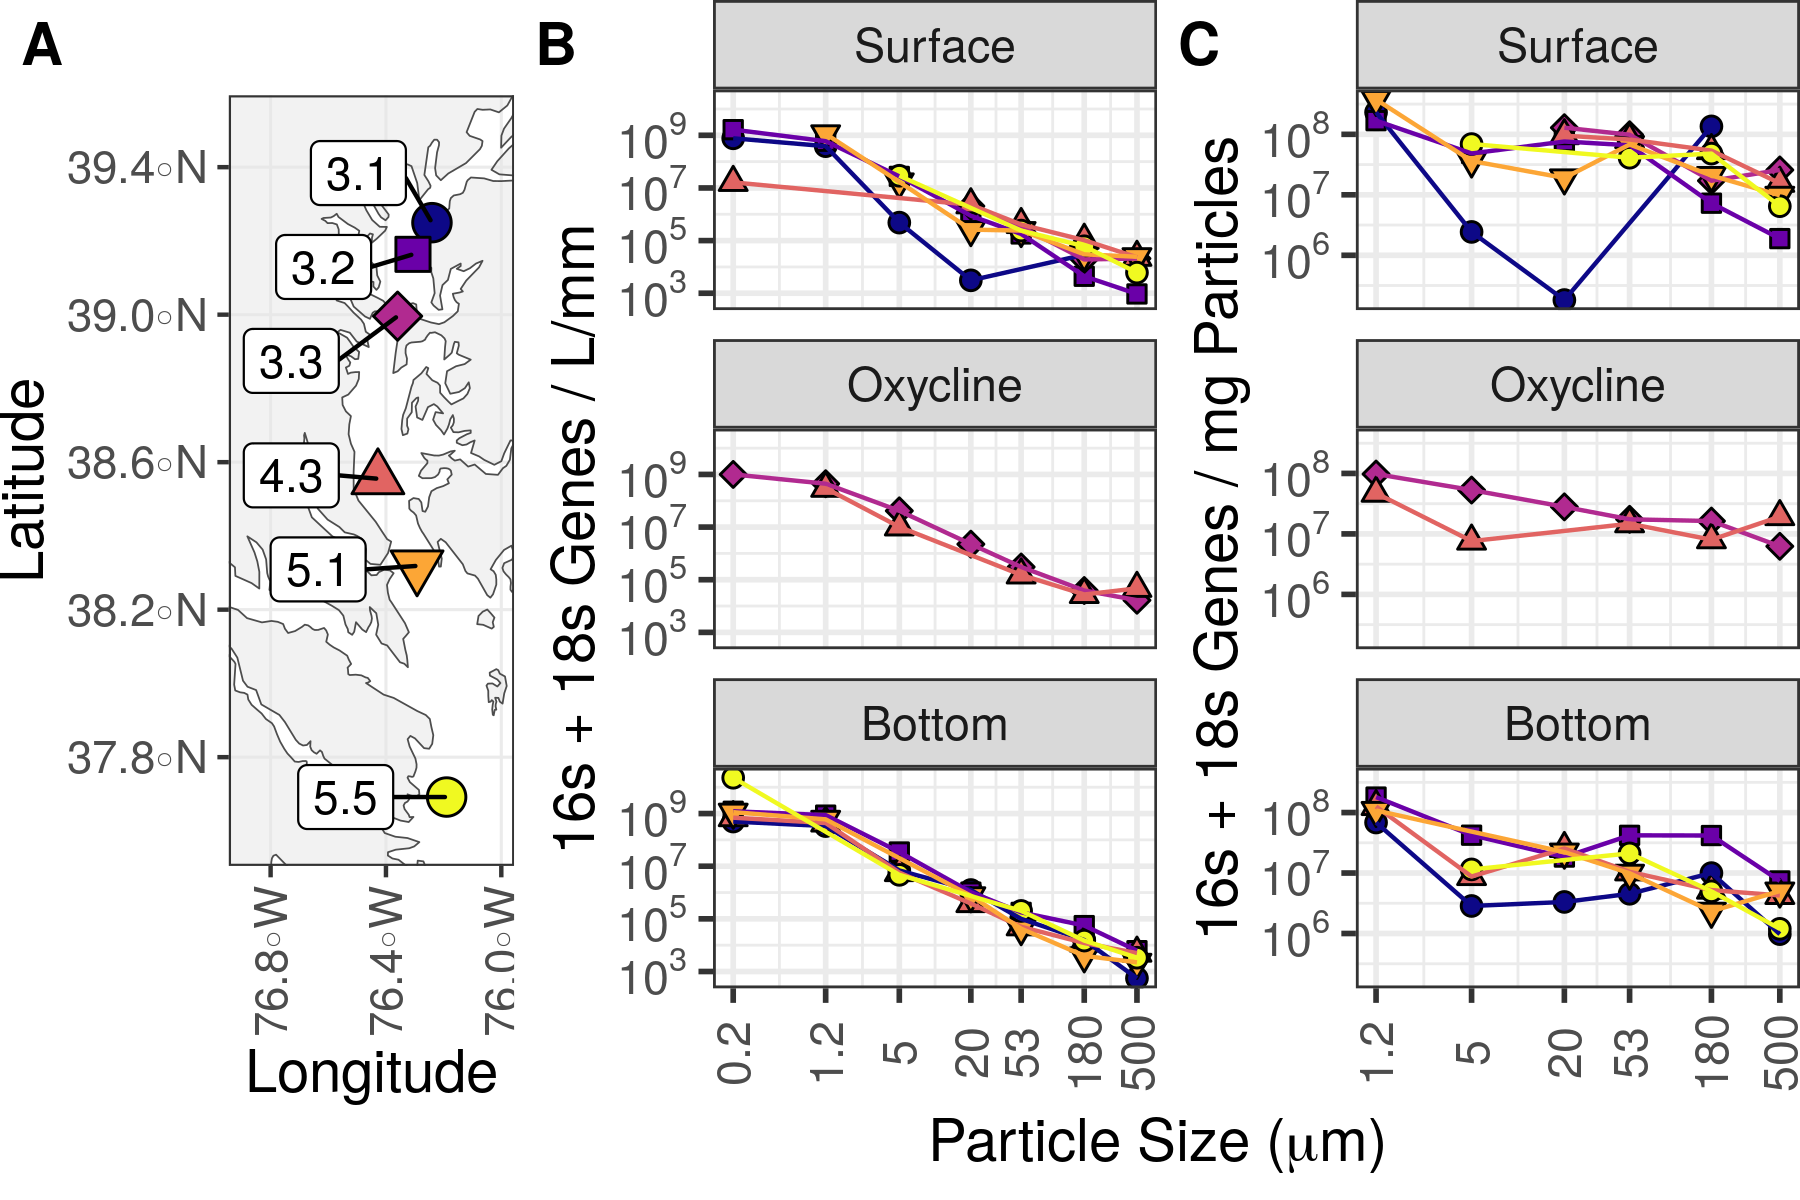
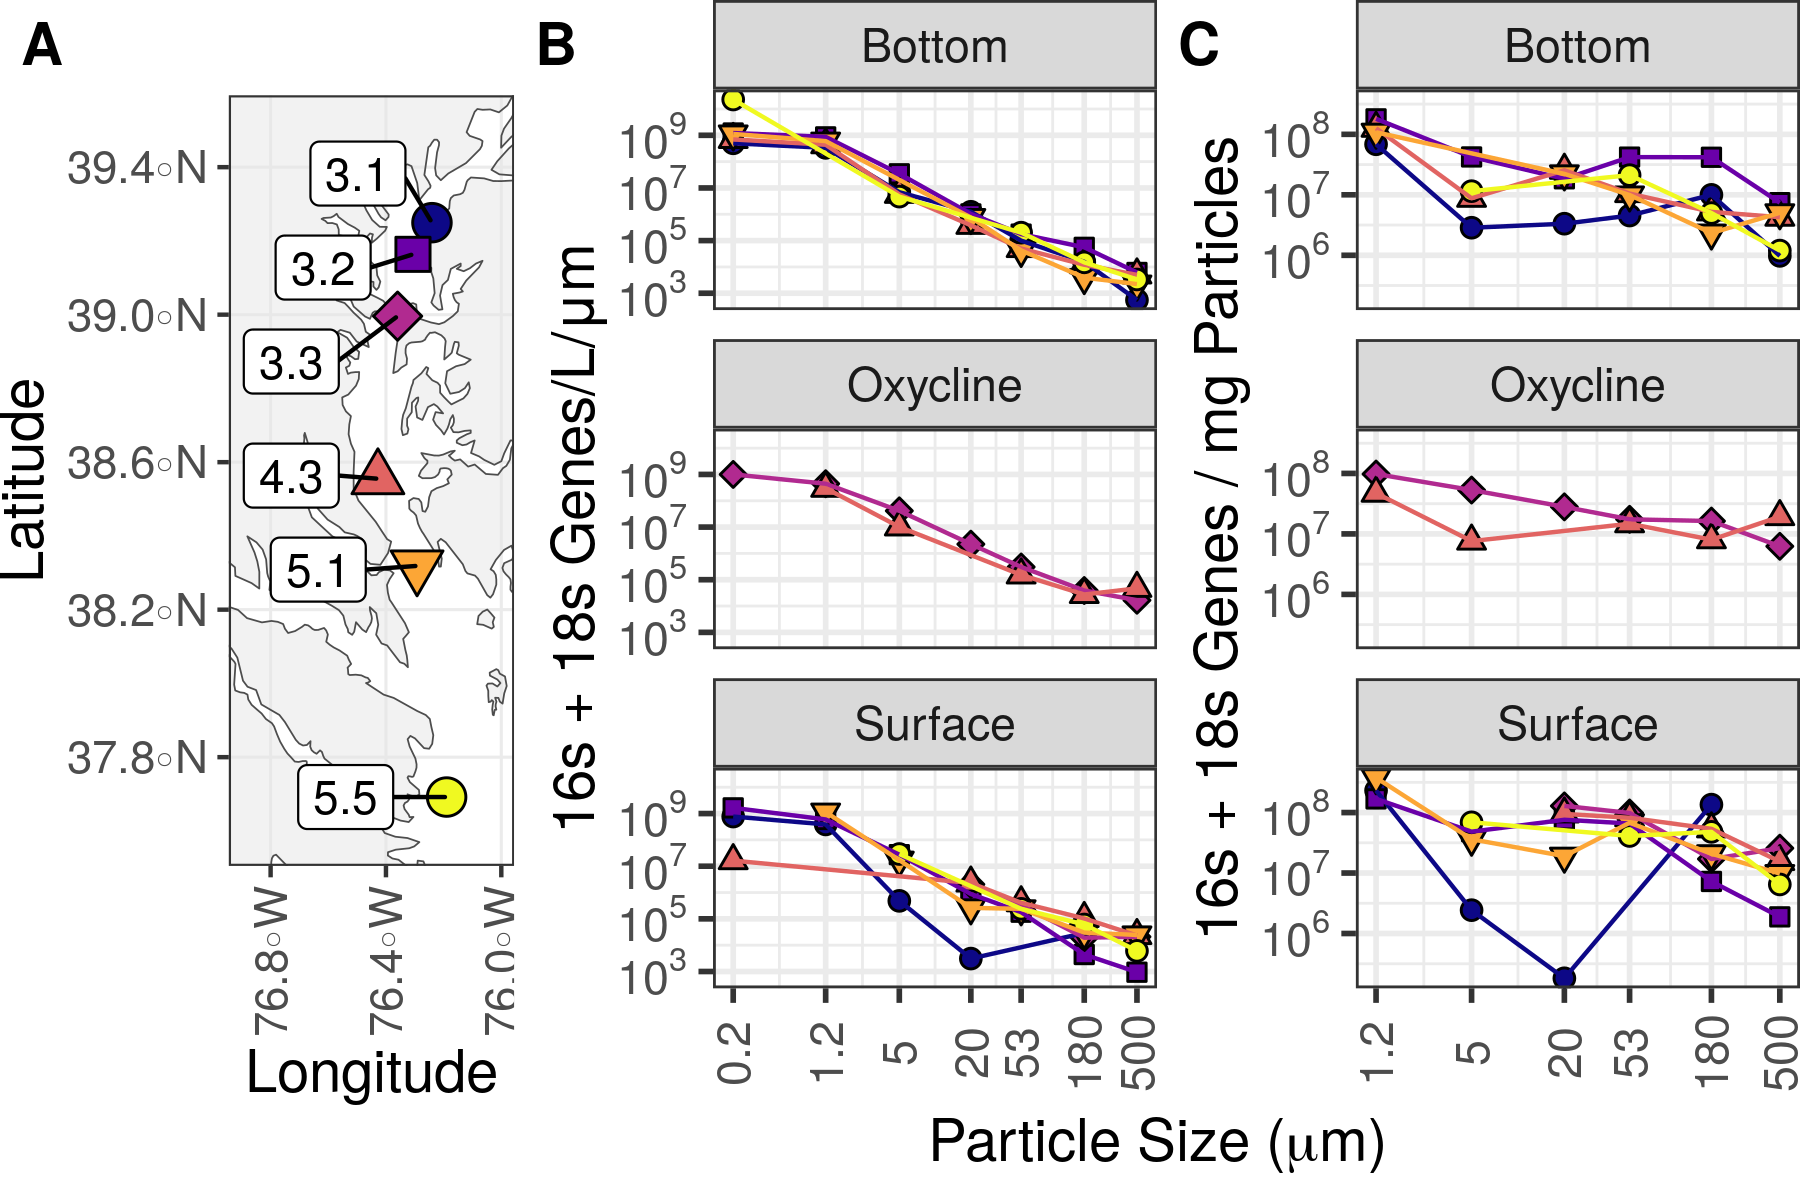
Corrected figure S2 panels A&C MassAndAbundanceNoMap.png

diff --git a/ScratchNotebooks/PerMMtoPerMicron.md b/ScratchNotebooks/PerMMtoPerMicron.md
@@ -5,8 +5,8 @@ Fortunately, this problem affects only units that I report things in and not any
 
 The following figures need to be updated
 
-Figure 2, panels A&C -- MassAndAbundanceNoMap.png --
-Figure S2, all, MCN_Molarity.png --
+Figure 2, panels A&C -- MassAndAbundanceNoMap.png -- AllMicrobesFigures.qmd; (Resaved)
+Figure S2, all, MCN_Molarity.png -- ParticulateMolarity.Rmd; (Resaved)
 Figure S23, all, bottomNS.png, oxyclineNS.png, surfaceNS.png
 
 I need to comment the code so that when I define something as /L/mm, I clarify in the comments that the units are wrong.
